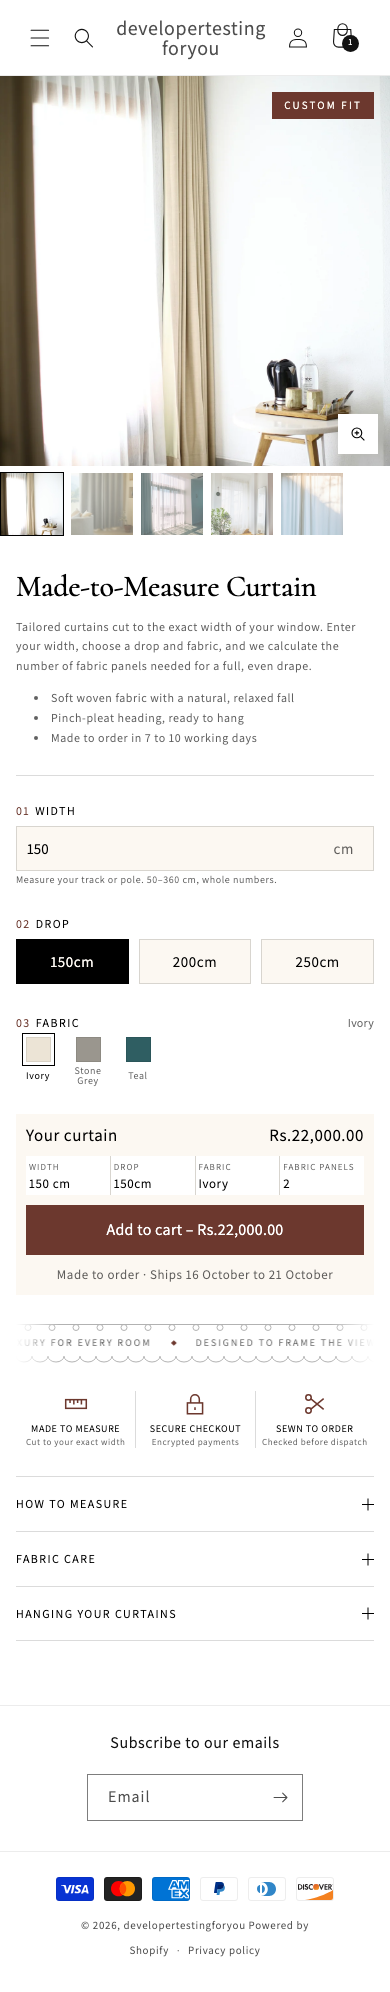
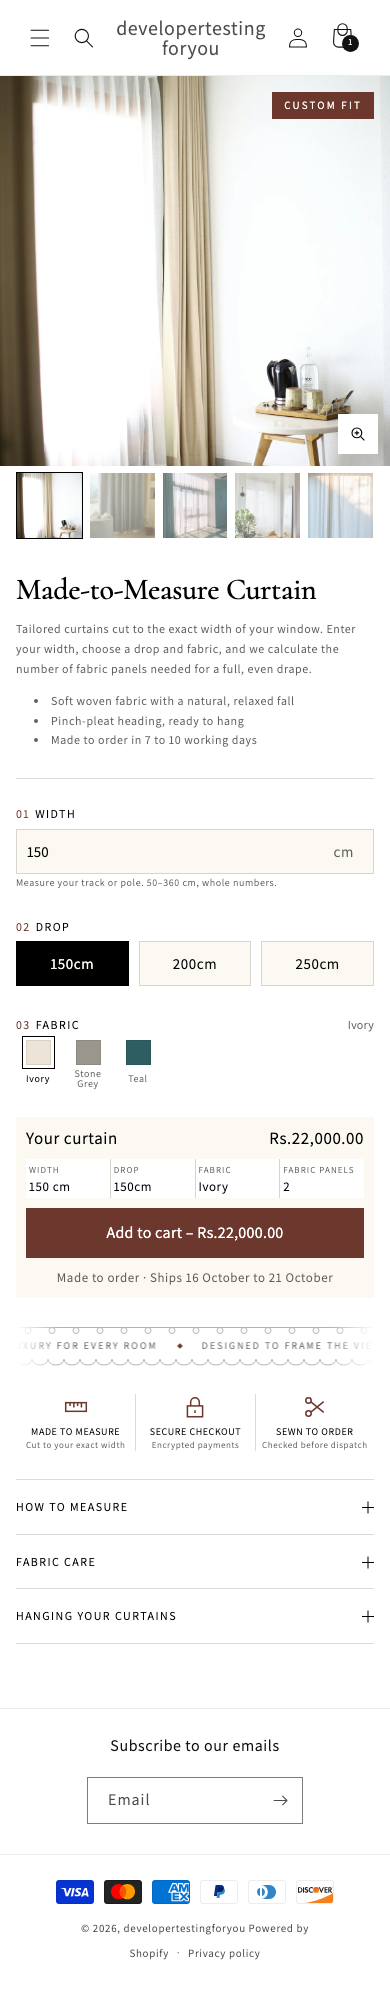
Inset the mobile thumbnails to the content margin
The strip still scrolls edge to edge, but the first and last thumbnails
sit 16px in and the thumbnails share the row when they all fit.

diff --git a/assets/curtain-configurator.css b/assets/curtain-configurator.css
@@ -919,18 +919,21 @@ curtain-configurator :focus-visible {
     grid-column: 1;
   }
 
+  /* The strip scrolls edge to edge, but the thumbnails start and end at the content margin. */
   .cc__thumbs {
     grid-row: 2;
     flex-direction: row;
     gap: 0.6rem;
     height: auto;
     min-height: 0;
+    padding-inline: 1.6rem;
     overflow-x: auto;
+    scroll-padding-inline: 1.6rem;
     scroll-snap-type: x mandatory;
   }
 
   .cc__thumbs li {
-    flex: 0 0 6.4rem;
+    flex: 1 0 6.4rem;
     scroll-snap-align: start;
   }
 

diff --git a/README.md b/README.md
@@ -241,7 +241,7 @@ The step numbers 01, 02 and 03 come from a CSS counter, so they follow the block
 **Delivery dates.** The note in the add to cart block can contain `[start]` and `[end]`. The script fills them with dates counted from today, for example "Made to order · Ships 16 October to 21 October". The earliest and latest day counts are settings, and weekends can be skipped. The dates are worked out in the browser, because Shopify may serve a cached page rendered on an earlier day.
 
 **Section settings.**
-- **Gallery:** image ratio, a badge on the first image ("Custom Fit" by default, blank to hide), and image zoom. On desktop the gallery takes 60% of the width and the product details 40%. The main image fills the screen below the header, with thumbnails in a column on its left. On tablet and mobile the ratio applies. On mobile the gallery runs edge to edge directly under the header, the thumbnails move under the image, and the gaps tighten to 6px.
+- **Gallery:** image ratio, a badge on the first image ("Custom Fit" by default, blank to hide), and image zoom. On desktop the gallery takes 60% of the width and the product details 40%. The main image fills the screen below the header, with thumbnails in a column on its left. On tablet and mobile the ratio applies. On mobile the main image runs edge to edge directly under the header. The thumbnails sit under it with the same 16px side margins as the content, share the row evenly, and scroll if there are more than fit. Gaps tighten to 6px.
 
 **Image zoom.** On desktop, hovering the main image shows a 2.5x magnified copy that follows the pointer. On touch screens, a tap zooms in at that point, dragging pans, and a second tap zooms out. A magnifier button in the corner toggles zoom for keyboard and touch users, and Escape closes it. The magnified copy is a 2400px version of the image, loaded only when zoom is first used.
 - **Configuration:** default width, and the names of the Color, Drop and Panels options.
